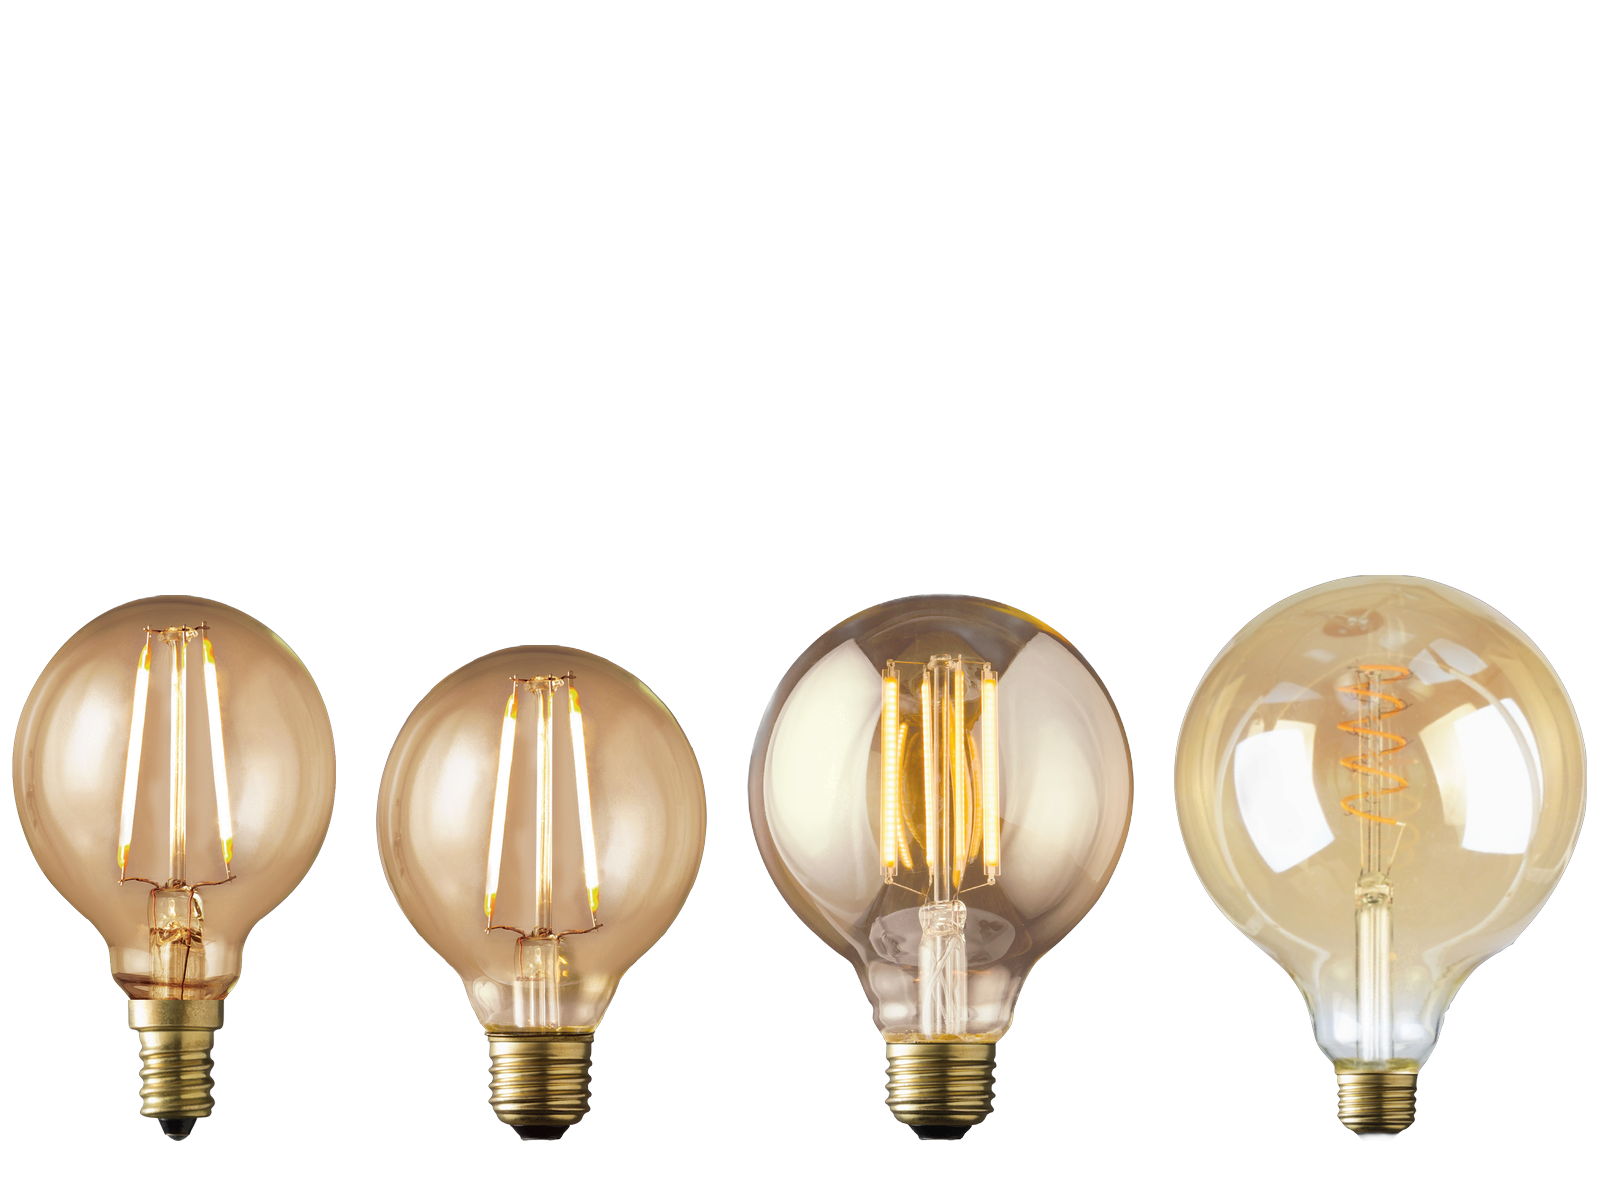
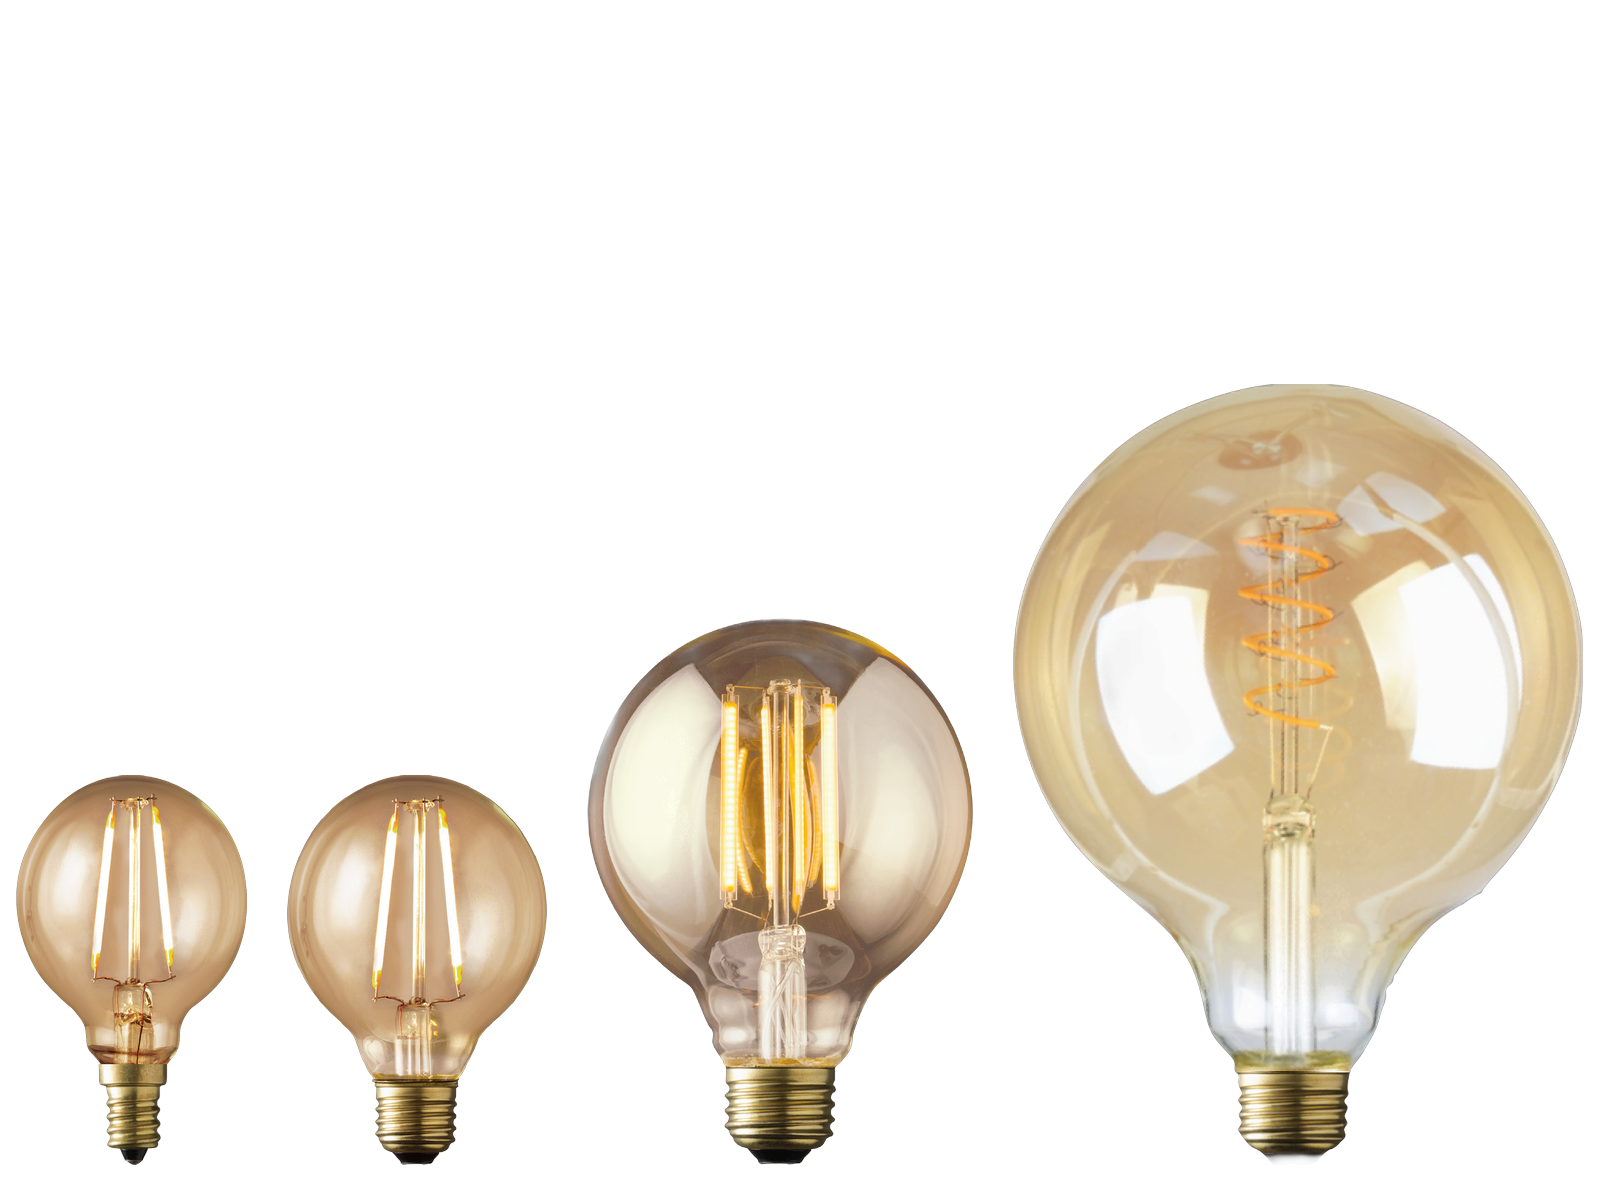
fix: rebuild Provence Globe composite with correct size ratios (50/50/70/100%)

diff --git a/scripts/composite_globe_group_v3.py b/scripts/composite_globe_group_v3.py
@@ -1,0 +1,89 @@
+"""
+Provence Globe composite v3 — explicit size ratios.
+Order (left to right): G16.5 CB, G16.5 MB, G25, G40
+Ratios relative to 4th (G40) rendered height:
+  G16.5 CB = 50%
+  G16.5 MB = 50%
+  G25      = 70%
+  G40      = 100%
+Canvas: 1600×1200 (4:3), transparent bg, base-aligned.
+"""
+from pathlib import Path
+from rembg import remove
+from PIL import Image
+import numpy as np
+import io
+
+UPLOAD = Path("/home/ubuntu/upload")
+OUT_DIR = Path("/home/ubuntu/alg-website/public/images/vintage-decor")
+OUT_DIR.mkdir(parents=True, exist_ok=True)
+
+SOURCES = [
+    ("LTG165V_CB.png",       0.50),
+    ("LTG165V_MB.png",       0.50),
+    ("LTG25V_MB.png",        0.70),
+    ("LTG40V_MB-SV(1).png",  1.00),
+]
+
+CANVAS_W = 1600
+CANVAS_H = 1200
+PADDING  = 40
+ALPHA_THRESHOLD = 30
+
+def remove_bg(src: Path) -> Image.Image:
+    print(f"Processing {src.name} ...")
+    data = src.read_bytes()
+    out  = remove(data)
+    img  = Image.open(io.BytesIO(out)).convert("RGBA")
+    arr  = np.array(img)
+    arr[arr[:, :, 3] < ALPHA_THRESHOLD, 3] = 0
+    img  = Image.fromarray(arr)
+    bbox = img.getbbox()
+    img  = img.crop(bbox)
+    print(f"  Cropped: {img.width}×{img.height}")
+    return img
+
+raw_bulbs = [(remove_bg(UPLOAD / name), ratio) for name, ratio in SOURCES]
+
+# Target height for the 100% bulb = 90% of canvas height
+target_100_h = int(CANVAS_H * 0.90)
+
+scaled = []
+for img, ratio in raw_bulbs:
+    base_scale = target_100_h / img.height
+    final_h = int(target_100_h * ratio)
+    final_w = int(img.width * base_scale * ratio)
+    resized = img.resize((final_w, final_h), Image.LANCZOS)
+    scaled.append(resized)
+    print(f"  Rendered: {resized.width}×{resized.height} (ratio {ratio})")
+
+# Shrink if total width exceeds canvas
+total_w = sum(b.width for b in scaled) + PADDING * (len(scaled) - 1)
+if total_w > CANVAS_W * 0.96:
+    fit = (CANVAS_W * 0.96) / total_w
+    scaled = [b.resize((int(b.width * fit), int(b.height * fit)), Image.LANCZOS) for b in scaled]
+    total_w = sum(b.width for b in scaled) + PADDING * (len(scaled) - 1)
+
+def base_y(img: Image.Image) -> int:
+    alpha = img.split()[3]
+    for y in range(img.height - 1, -1, -1):
+        row = alpha.crop((0, y, img.width, y + 1))
+        if row.getextrema()[1] > 10:
+            return y
+    return img.height - 1
+
+base_y_canvas = int(CANVAS_H * 0.97)
+
+canvas = Image.new("RGBA", (CANVAS_W, CANVAS_H), (0, 0, 0, 0))
+
+start_x = (CANVAS_W - total_w) // 2
+x = start_x
+for b in scaled:
+    base = base_y(b)
+    y_pos = base_y_canvas - base
+    canvas.paste(b, (x, y_pos), b)
+    x += b.width + PADDING
+
+out_path = OUT_DIR / "provence-globe-group.png"
+canvas.save(out_path, "PNG")
+print(f"\nSaved → {out_path}  ({canvas.width}×{canvas.height})")
